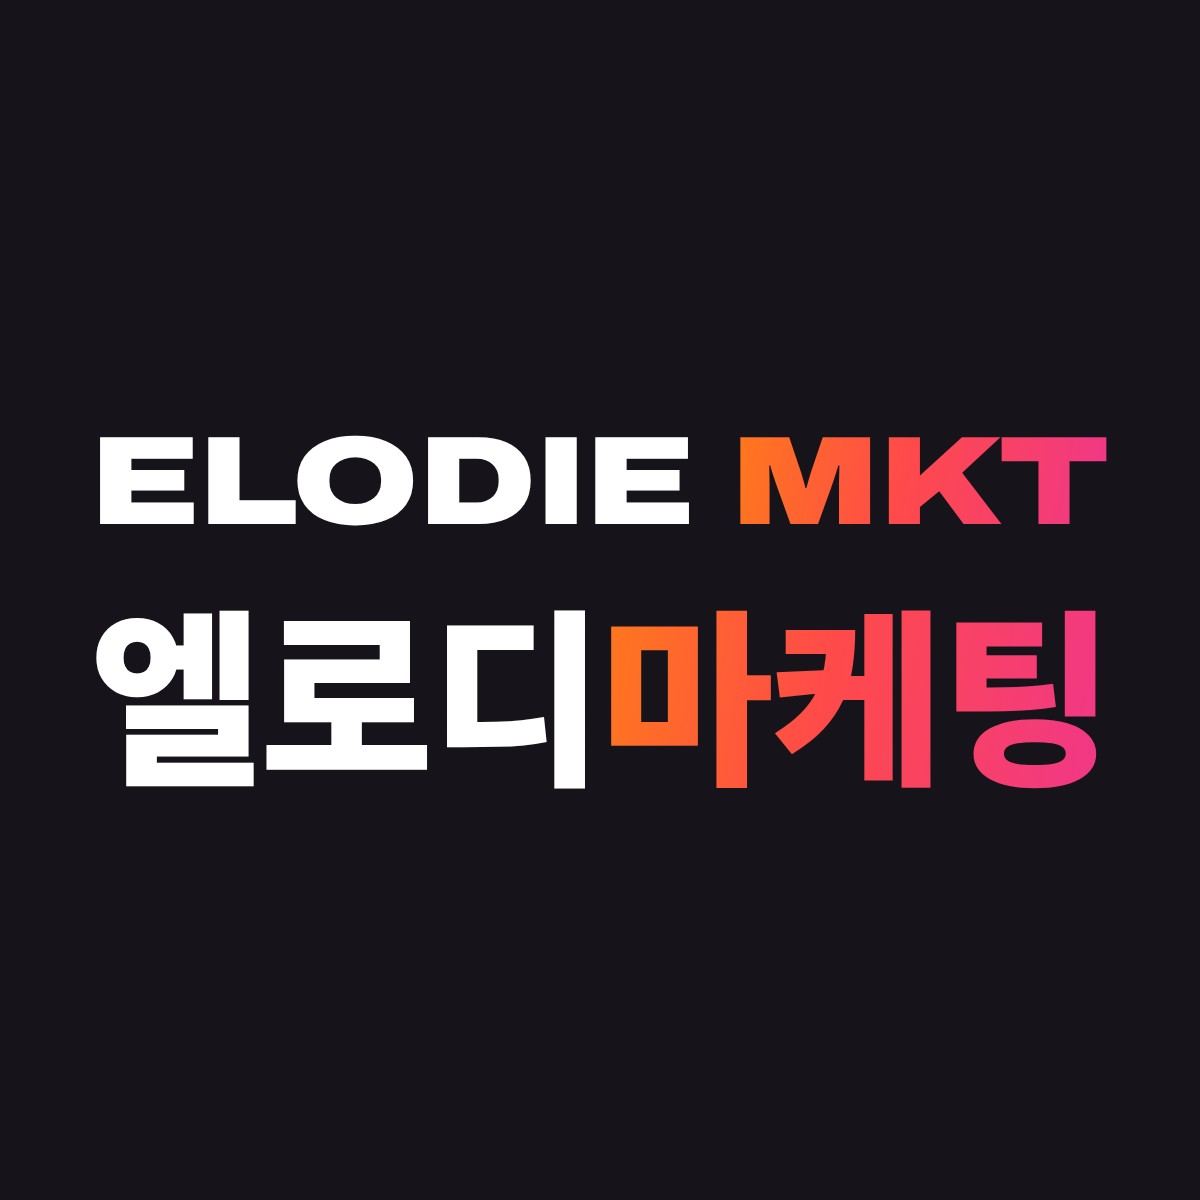
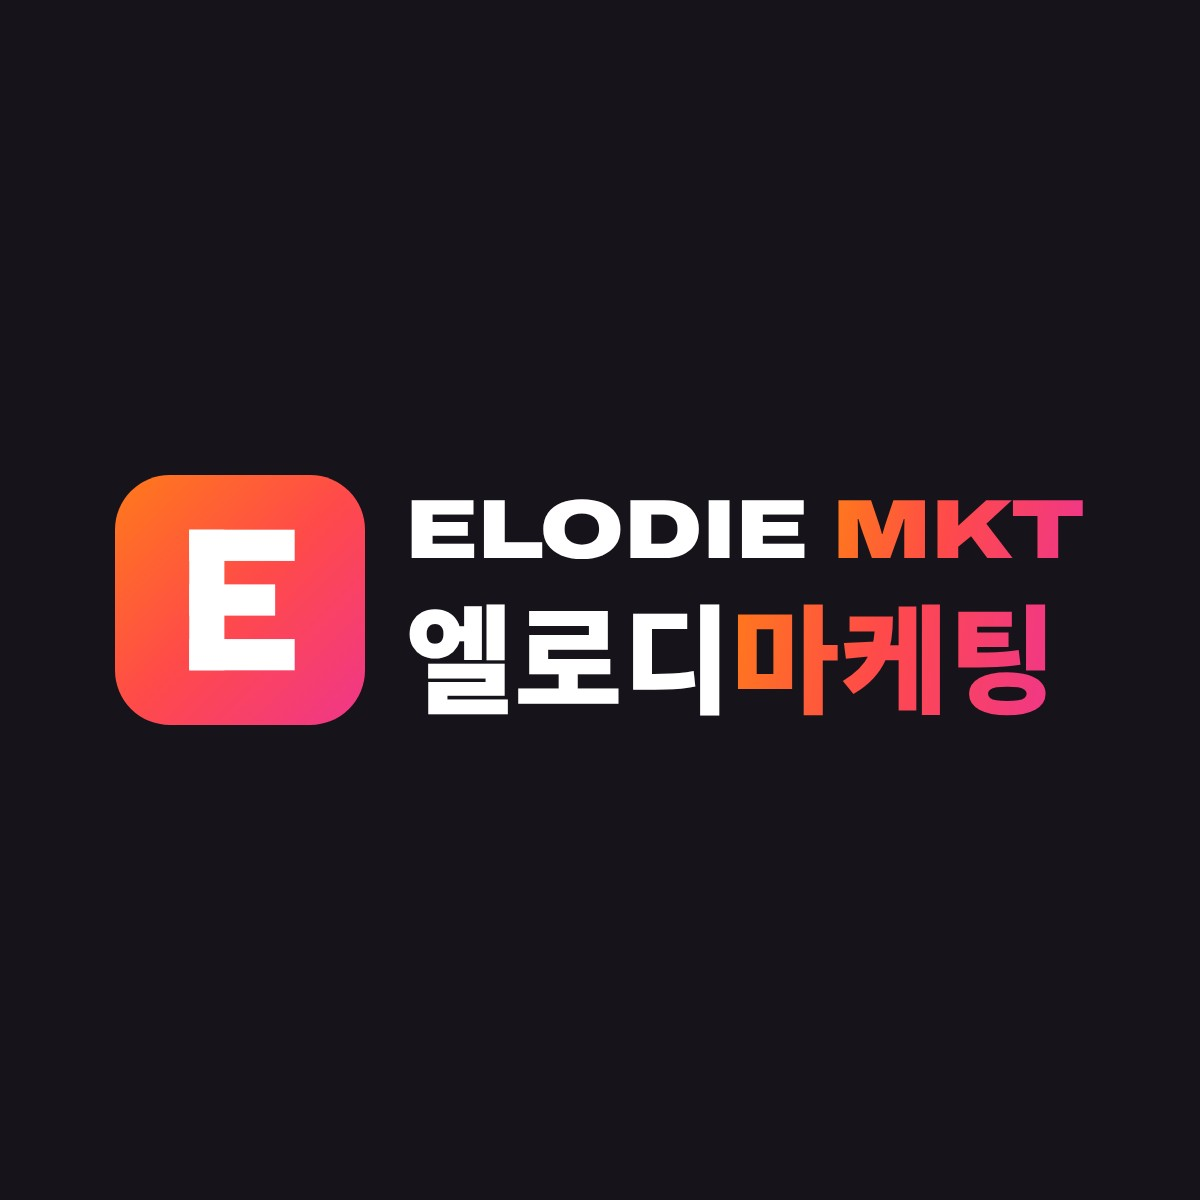
링크 미리보기 이미지: 로고 아이콘 + 영문·한글 가로형으로 교체
Claude-Session: https://claude.ai/code/session_016s9DymnZGt773EwUM6KXTA

Changed region(s): [[0.0617, 0.3392, 0.925, 0.6783]]

diff --git a/insight/shortform-influencer-marketing/index.html b/insight/shortform-influencer-marketing/index.html
@@ -22,7 +22,7 @@
 <meta property="og:title" content="숏폼 인플루언서 마케팅, 브랜드가 진행 전에 체크할 5가지 | 엘로디">
 <meta property="og:description" content="쇼츠·릴스·틱톡 숏폼 인플루언서 마케팅을 처음 진행하는 브랜드를 위한 가이드입니다. 어떤 제품에 맞는지, 채널 고르는 법, 크리에이터 고르는 기준, 기획 주제, 결과 보는 법을 실제 사례와 함께 정리했습니다.">
 <meta property="og:url" content="https://elodiemkt.kr/insight/shortform-influencer-marketing/">
-<meta property="og:image" content="https://elodiemkt.kr/og-image.jpg">
+<meta property="og:image" content="https://elodiemkt.kr/og-image.jpg?v=2">
 <meta property="og:image:width" content="1200">
 <meta property="og:image:height" content="1200">
 <link rel="icon" href="/favicon.ico" sizes="48x48">

diff --git a/insight/twitter-influencer-marketing/index.html b/insight/twitter-influencer-marketing/index.html
@@ -22,7 +22,7 @@
 <meta property="og:title" content="트위터 인플루언서 마케팅, 브랜드가 진행 전에 알아야 할 5가지 | 엘로디">
 <meta property="og:description" content="X(트위터) 인플루언서 마케팅을 처음 진행하는 브랜드를 위한 가이드입니다. 어떤 브랜드에 맞는지, 인플루언서 고르는 기준, 타이밍, 광고 표기, 결과 보는 법을 실제 사례와 함께 정리했습니다.">
 <meta property="og:url" content="https://elodiemkt.kr/insight/twitter-influencer-marketing/">
-<meta property="og:image" content="https://elodiemkt.kr/og-image.jpg">
+<meta property="og:image" content="https://elodiemkt.kr/og-image.jpg?v=2">
 <meta property="og:image:width" content="1200">
 <meta property="og:image:height" content="1200">
 <link rel="icon" href="/favicon.ico" sizes="48x48">

diff --git a/insight/influencer-seeding/index.html b/insight/influencer-seeding/index.html
@@ -22,7 +22,7 @@
 <meta property="og:title" content="인플루언서 시딩이란? 뜻부터 X(트위터)·숏폼 시딩 진행 방법까지 | 엘로디">
 <meta property="og:description" content="인플루언서 시딩 뜻과 효과, X(트위터)·릴스·쇼츠·블로그 채널별 특징, 시딩 진행 순서 6단계, 인원 고르는 기준과 실제 사례까지 브랜드 담당자를 위해 정리했습니다.">
 <meta property="og:url" content="https://elodiemkt.kr/insight/influencer-seeding/">
-<meta property="og:image" content="https://elodiemkt.kr/og-image.jpg">
+<meta property="og:image" content="https://elodiemkt.kr/og-image.jpg?v=2">
 <meta property="og:image:width" content="1200">
 <meta property="og:image:height" content="1200">
 <link rel="icon" href="/favicon.ico" sizes="48x48">

diff --git a/insight/index.html b/insight/index.html
@@ -22,7 +22,7 @@
 <meta property="og:title" content="마케팅 인사이트 | X(트위터)·숏폼 마케팅 가이드 - 엘로디">
 <meta property="og:description" content="엘로디마케팅이 X(트위터)와 숏폼 인플루언서 마케팅을 직접 진행하며 정리한 가이드입니다. 트위터 인플루언서 마케팅 방법과 사례를 확인하세요.">
 <meta property="og:url" content="https://elodiemkt.kr/insight/">
-<meta property="og:image" content="https://elodiemkt.kr/og-image.jpg">
+<meta property="og:image" content="https://elodiemkt.kr/og-image.jpg?v=2">
 <meta property="og:image:width" content="1200">
 <meta property="og:image:height" content="1200">
 <link rel="icon" href="/favicon.ico" sizes="48x48">

diff --git a/index.html b/index.html
@@ -23,7 +23,7 @@
 <meta property="og:title" content="엘로디마케팅 | 트위터 마케팅·X 광고·숏폼 인플루언서 대행">
 <meta property="og:description" content="트위터 마케팅, X 광고, 숏폼 인플루언서 마케팅 광고대행사. 재대행 없이 직접 진행합니다.">
 <meta property="og:url" content="https://elodiemkt.kr/">
-<meta property="og:image" content="https://elodiemkt.kr/og-image.jpg">
+<meta property="og:image" content="https://elodiemkt.kr/og-image.jpg?v=2">
 <meta property="og:image:width" content="1200">
 <meta property="og:image:height" content="1200">
 <script type="application/ld+json">

diff --git a/work/davich-foraea-oneday/index.html b/work/davich-foraea-oneday/index.html
@@ -20,7 +20,7 @@
 <meta property="og:title" content="다비치 포레아 원데이 컬러렌즈 출시 X(트위터) 인플루언서 마케팅 사례 | 트위터 마케팅 엘로디">
 <meta property="og:type" content="article">
 <meta property="og:url" content="https://elodiemkt.kr/work/davich-foraea-oneday/">
-<meta property="og:image" content="https://elodiemkt.kr/og-image.jpg">
+<meta property="og:image" content="https://elodiemkt.kr/og-image.jpg?v=2">
 <meta property="og:image:width" content="1200">
 <meta property="og:image:height" content="1200">
 <link rel="icon" href="/favicon.ico" sizes="48x48">

diff --git a/work/mlb-2025-12/index.html b/work/mlb-2025-12/index.html
@@ -20,7 +20,7 @@
 <meta property="og:title" content="MLB 패딩 무신사 스포츠위크 X(트위터) 할인 프로모션 마케팅 사례 | 트위터 마케팅 엘로디">
 <meta property="og:type" content="article">
 <meta property="og:url" content="https://elodiemkt.kr/work/mlb-2025-12/">
-<meta property="og:image" content="https://elodiemkt.kr/og-image.jpg">
+<meta property="og:image" content="https://elodiemkt.kr/og-image.jpg?v=2">
 <meta property="og:image:width" content="1200">
 <meta property="og:image:height" content="1200">
 <link rel="icon" href="/favicon.ico" sizes="48x48">

diff --git a/work/bom-2026-10/index.html b/work/bom-2026-10/index.html
@@ -20,7 +20,7 @@
 <meta property="og:title" content="비오엠 바디 톤업 X(트위터)·인스타그램 릴스 올리브영 프로모션 마케팅 사례 | 엘로디">
 <meta property="og:type" content="article">
 <meta property="og:url" content="https://elodiemkt.kr/work/bom-2026-10/">
-<meta property="og:image" content="https://elodiemkt.kr/og-image.jpg">
+<meta property="og:image" content="https://elodiemkt.kr/og-image.jpg?v=2">
 <meta property="og:image:width" content="1200">
 <meta property="og:image:height" content="1200">
 <link rel="icon" href="/favicon.ico" sizes="48x48">

diff --git a/work/color-cosmetics-x/index.html b/work/color-cosmetics-x/index.html
@@ -20,7 +20,7 @@
 <meta property="og:title" content="블러셔·립밤 색조 화장품 X(트위터) 마케팅 사례 | 트위터 마케팅 엘로디">
 <meta property="og:type" content="article">
 <meta property="og:url" content="https://elodiemkt.kr/work/color-cosmetics-x/">
-<meta property="og:image" content="https://elodiemkt.kr/og-image.jpg">
+<meta property="og:image" content="https://elodiemkt.kr/og-image.jpg?v=2">
 <meta property="og:image:width" content="1200">
 <meta property="og:image:height" content="1200">
 <link rel="icon" href="/favicon.ico" sizes="48x48">

diff --git a/work/davich-2026-01/index.html b/work/davich-2026-01/index.html
@@ -20,7 +20,7 @@
 <meta property="og:title" content="다비치 컬러렌즈 X(트위터) 프로모션 마케팅 사례 | 트위터 마케팅 엘로디">
 <meta property="og:type" content="article">
 <meta property="og:url" content="https://elodiemkt.kr/work/davich-2026-01/">
-<meta property="og:image" content="https://elodiemkt.kr/og-image.jpg">
+<meta property="og:image" content="https://elodiemkt.kr/og-image.jpg?v=2">
 <meta property="og:image:width" content="1200">
 <meta property="og:image:height" content="1200">
 <link rel="icon" href="/favicon.ico" sizes="48x48">

diff --git a/work/davich-light-series/index.html b/work/davich-light-series/index.html
@@ -20,7 +20,7 @@
 <meta property="og:title" content="컬러렌즈 신제품 할인 X(트위터) 마케팅 사례 | 다비치 라이트 시리즈">
 <meta property="og:type" content="article">
 <meta property="og:url" content="https://elodiemkt.kr/work/davich-light-series/">
-<meta property="og:image" content="https://elodiemkt.kr/og-image.jpg">
+<meta property="og:image" content="https://elodiemkt.kr/og-image.jpg?v=2">
 <meta property="og:image:width" content="1200">
 <meta property="og:image:height" content="1200">
 <link rel="icon" href="/favicon.ico" sizes="48x48">

diff --git a/work/maniq-zigzag-blackfriday/index.html b/work/maniq-zigzag-blackfriday/index.html
@@ -20,7 +20,7 @@
 <meta property="og:title" content="지그재그 블랙프라이데이 기획전 X(트위터) 마케팅 사례 | 매니크">
 <meta property="og:type" content="article">
 <meta property="og:url" content="https://elodiemkt.kr/work/maniq-zigzag-blackfriday/">
-<meta property="og:image" content="https://elodiemkt.kr/og-image.jpg">
+<meta property="og:image" content="https://elodiemkt.kr/og-image.jpg?v=2">
 <meta property="og:image:width" content="1200">
 <meta property="og:image:height" content="1200">
 <link rel="icon" href="/favicon.ico" sizes="48x48">
